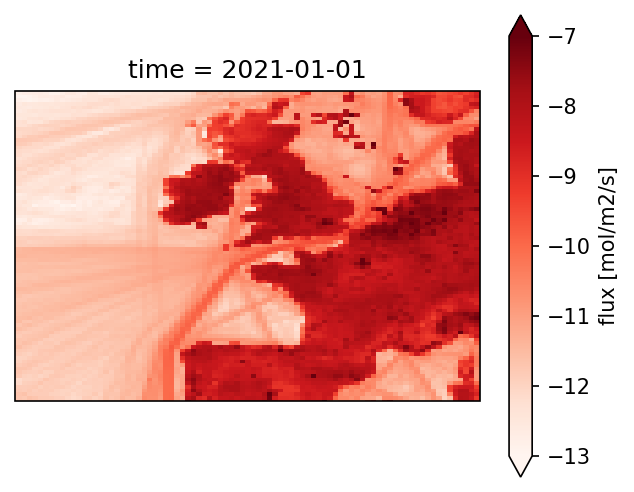
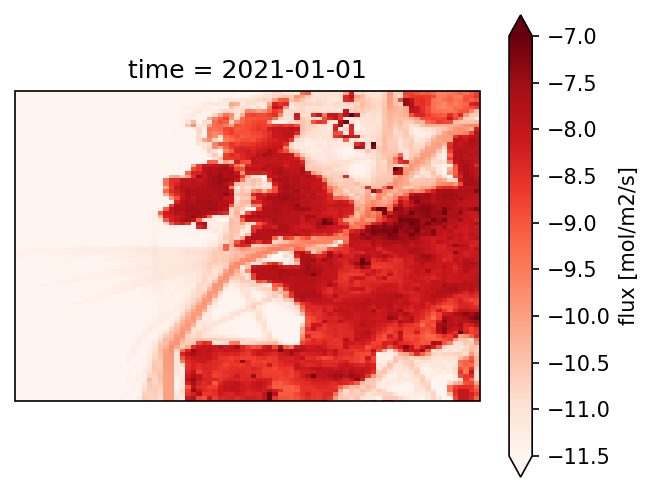
updated readme

diff --git a/README.md b/README.md
@@ -30,3 +30,7 @@ Belgium, Netherlands, Germany and the north of France produce a lot of methane!
 
 In this case, the sensitivity plume is only over the UK and Ireland, so the air is polluted, but not as much as when it comes from Europe.
 ![example3](figs/medium_obs.png)
+
+## The origin of emissions
+This is a map of man-made emissions over UK and part of Europe. Can you identify cities, boat tracks and drilling stations?
+![flux](figs/flux.png)
